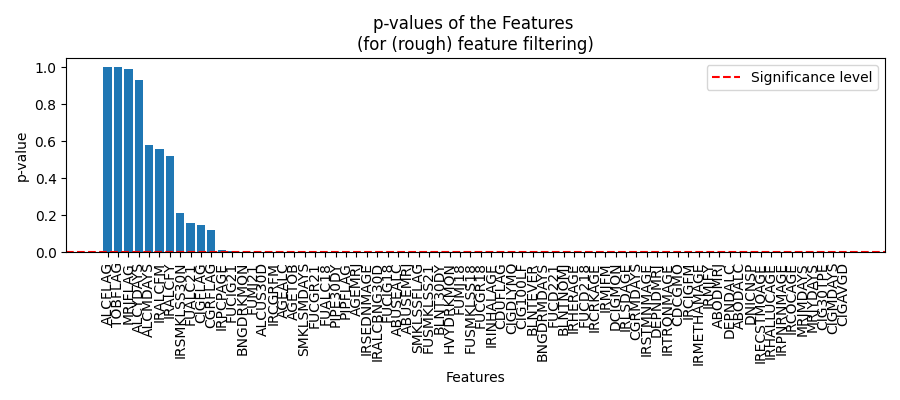
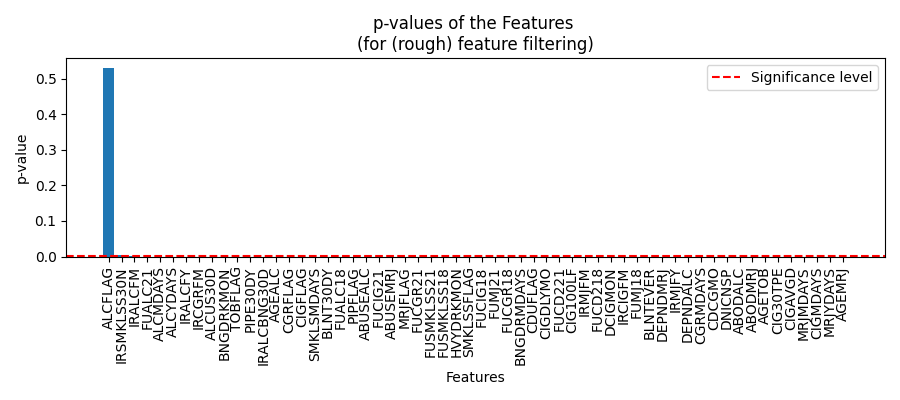
Data New isch die cleaned version (mit richtige datatypes)

diff --git a/Feature Selection 2.py b/Feature Selection 2.py
@@ -5,13 +5,14 @@ import seaborn as sns
 from sklearn.model_selection import StratifiedKFold
 from sklearn.model_selection import train_test_split, GridSearchCV
 from sklearn.preprocessing import StandardScaler
-from sklearn.feature_selection import chi2, f_classif, SelectKBest, mutual_info_classif
+from sklearn.feature_selection import chi2, f_classif, SelectKBest, mutual_info_classif, VarianceThreshold
 import scipy.stats as sts
-#eif drop_na??
+from sklearn.metrics import roc_curve, auc, accuracy_score, precision_score, recall_score, f1_score, confusion_matrix
+
 data = pd.read_csv('drug-use-health/data_new.csv', index_col=0)
 def cleaning(data):
     data['UDPYIEM'] = pd.Categorical(data['UDPYIEM'])
-    none_991 = ['IRCIGAGE', 'IRCDUAGE', 'IRCGRAGE', 'IRSMKLSSTRY', 'IRALCAGE', 'IRMJAGE', 'IRTOBAGE','IRMJALLGAGE']
+    none_991 = ['IRCIGAGE', 'IRCDUAGE', 'IRCGRAGE', 'IRSMKLSSTRY', 'IRALCAGE', 'IRMJAGE', 'IRTOBAGE','IRMJALLGAGE','ILLICITAGE']
     data['BLNTAGE'] = data['BLNTAGE'].where(data['BLNTAGE'] < 70, None).astype('Int64')
     binary = ['CIGFLAG','CGRFLAG','PIPFLAG', 'SMKLSSFLAG', 'TOBFLAG', 'ALCFLAG','MRJFLAG','DCIGMON','FUCIG18','FUCIG21', 'FUCGR18','FUCGR21','FUSMKLSS18','FUSMKLSS21','FUALC18','FUALC21','FUMJ18','FUMJ21','DEPNDALC','DEPNDMRJ', 'ABUSEALC','ABUSEMRJ','ABODALC','ABODMRJ','CDUFLAG','CDCGMO','BNGDRKMON','HVYDRKMON','FUCD218','FUCD221','DNICNSP','CIGDLYMO','CIG100LF','PIPE30DY','BLNTNOMJ','BLNTEVER']
     ordinal = ['CIG30TPE','ALCYDAYS','MRJYDAYS','CIGMDAYS','CGRMDAYS','SMKLSMDAYS','ALCMDAYS','MRJMDAYS','BNGDRMDAYS','CIGAVGD', 'AGEALC','AGETOB','AGEMRJ']
@@ -28,10 +29,12 @@ def cleaning(data):
     convert = ['ALCUS30D','IRCIGAGE', 'IRCDUAGE', 'IRCGRAGE', 'IRSMKLSSTRY', 'IRALCAGE','IRMJAGE', 'BLNTAGE', 'BLNT30DY','IRTOBAGE','IRMJALLGAGE']
     for i in convert:
         data[i] = data[i].astype('Int64')
-    data.drop(['IRTOBAGE', 'IRMJALLGAGE', 'IRALCAGE'], axis=1, inplace=True)
+    data.drop(['IRCOCAGE','IRCRKAGE','IRHERAGE','IRHALLUCAGE','IRLSDAGE','IRPCPAGE','IRECSTMOAGE','IRINHALAGE','IRMETHAMAGE','IRPNRNMAGE','IRTRQNMAGE','IRSTMNMAGE','IRSEDNMAGE'], axis=1, inplace=True)
+    data.drop(['BLNTNOMJ'], axis=1, inplace=True)
     return data
 
 #print(data.select_dtypes(include='float64').columns.tolist())
+
 """
 anschauen = []
 
@@ -55,8 +58,9 @@ print(anschauen)
 
 #Feature Continuous --> Anova
 #Feature Categorical --> Chi-Square
-#print(data.isna().sum().sort_values(ascending=False)/data.shape[0])
 data = cleaning(data)
+#print(data.isna().sum().sort_values(ascending=False)/data.shape[0])
+
 #Grobe Feature selection (meisten Nan values)
 plt.figure(figsize=(14,6))
 plt.bar(data.isna().sum().sort_values(ascending=False).index, data.isna().sum().sort_values(ascending=False)/data.shape[0])
@@ -68,7 +72,11 @@ plt.tight_layout()
 plt.savefig('figures/missing_values.png')
 #print(IRMJALLGAGE.isna().sum()/data.shape[0])
 pd.set_option("display.max_columns", data.shape[1])
-data.drop(['IRSMKLSSTRY','IRCGRAGE','IRCIGAGE','BLNTAGE','IRMJAGE','IRCDUAGE'],axis=1,inplace=True)
+def rough_filtering(df):
+    df.drop(['IRSMKLSSTRY','IRCGRAGE','IRCIGAGE','BLNTAGE','IRMJAGE','IRCDUAGE'],axis=1,inplace=True)
+    #Alter rausnehmen --> befindet sich in neuen Features als ordinal data
+    df.drop(['IRTOBAGE', 'IRMJALLGAGE', 'IRALCAGE','ILLICITAGE'], axis=1, inplace=True)
+    return df
 
 
 #Feature Filtering (preprocessing)
@@ -82,22 +90,20 @@ def decide(data):
     return data
 data = decide(data)
 """
-print(data.isna().sum().sort_values(ascending=False))
+data = rough_filtering(data)
+
+#print(data.isna().sum().sort_values(ascending=False)/data.shape[0])
 
 data.dropna(inplace=True)
 #print(data.TOBFLAG.value_counts())
-#print(data_copy.TOBFLAG.value_counts())
 #print(data.UDPYIEM.value_counts())
-#print(data_copy.UDPYIEM.value_counts())
 
-#print(data_evt.shape)
-#data_evt2 = data.dropna(subset=['IRMJALLGAGE','IRTOBAGE','IRALCAGE'])
-#print(data_evt2.shape)
-#print(data_evt2.isna().sum().sort_values(ascending=False))
-#print(data.isna().sum().sort_values(ascending=False))
+"""
 num_cols = data.select_dtypes(include=['Int64','float64']).columns.tolist()
+#print(num_cols)
 cate_cols = data.select_dtypes(include=['object','category']).columns.tolist()
 cate_cols.remove('UDPYIEM')
+#print(cate_cols)
 X = data.drop('UDPYIEM',axis=1)
 y = data['UDPYIEM']
 statistic = pd.DataFrame(index = ['F-Statistic','p-value','Chi2 statistic','Ranksum'],columns = X.columns)
@@ -134,10 +140,28 @@ plt.axhline(alpha, linestyle='--', color='r', label='Significance level')
 plt.legend()
 plt.tight_layout()
 plt.savefig('figures/p-value-distribution.png')
+pvalues = statistic.loc['p-value',:]
+"""
+def eval(y,X,clf):
+    y_pred = clf.predict(X)
+    y_pred_proba = clf.predict_proba(X)[:,1]
+    tn, fp, fn, tp = confusion_matrix(y, y_pred).ravel()
 
+    accuracy = accuracy_score(y, y_pred)
+    precision = precision_score(y,y_pred)
+    recall = recall_score(y,y_pred)
+    f1 = f1_score(y,y_pred)
+    fp_rates, tp_rates = roc_curve(y, y_pred_proba)
 
-def selection(data, model):
+    roc_auc = auc(fp_rates,tp_rates)
 
+    return tp,fp,tn,accuracy, precision,recall,f1,roc_auc
+
+def selection(X_train,y_train,model,how,n):
+    UVFS_Selector = SelectKBest(score_func=how, k=n)
+    X_selected = UVFS_Selector.fit_transform(X_train,y_train)
+
+def prepare(data, model):
     num_cols = data.select_dtypes(include=['Int64','float64']).columns.tolist()
     cate_cols = data.select_dtypes(include=['object','category']).columns.tolist()
     cate_cols.remove('UDPYIEM')
